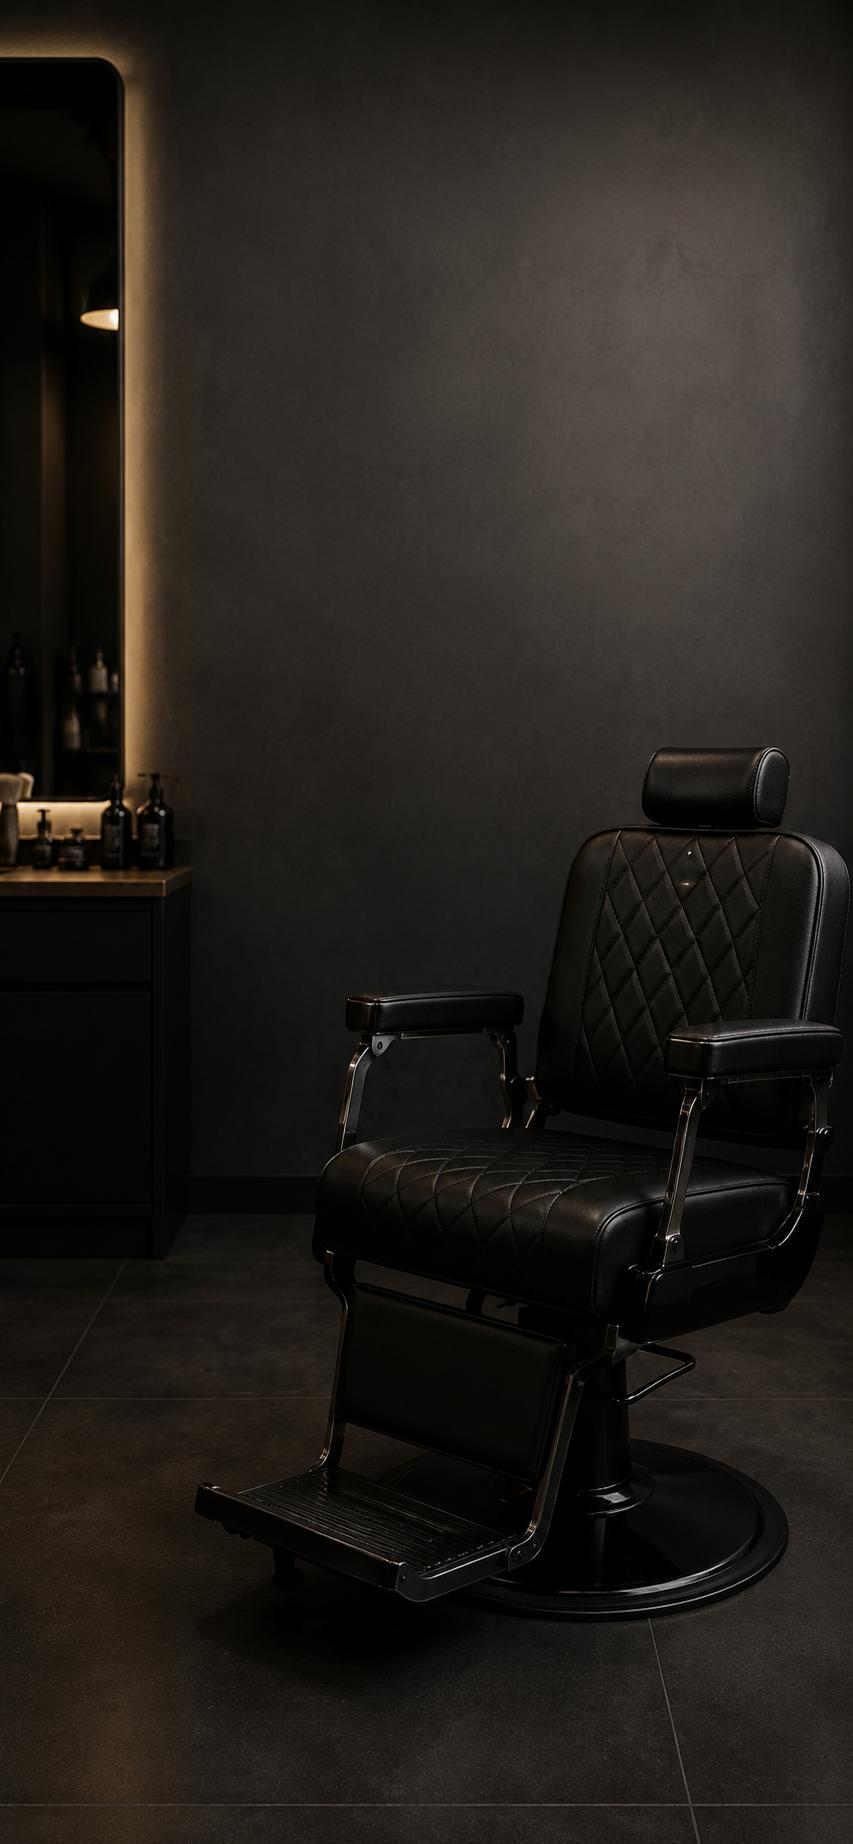
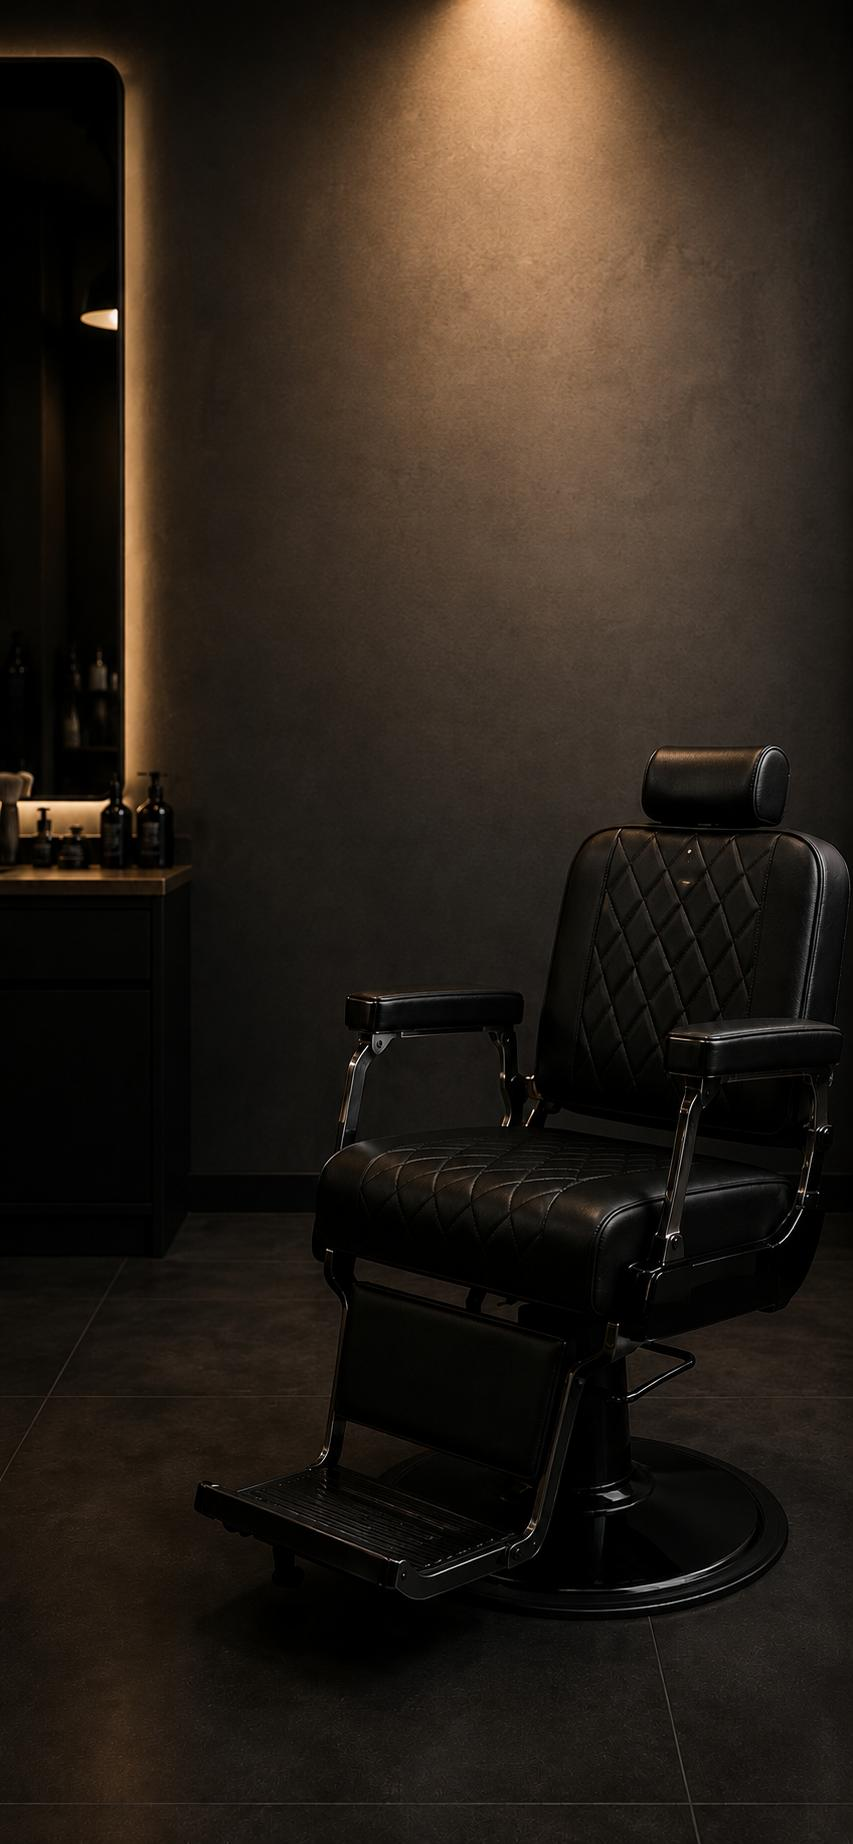
Add files via upload

diff --git a/index.html b/index.html
@@ -1846,8 +1846,8 @@ input, textarea, select {
 
     <!-- Content -->
     <div class="content-area">
-      <div class="info-card" style="background-image:url('mirror.jpg');background-size:cover;background-position:center;border-color:rgba(255,255,255,0.12);min-height:110px;position:relative;animation:card-spin 64s linear infinite;overflow:visible;transform-style:preserve-3d;opacity:1;">
-        <div style="position:absolute;inset:0;background:rgba(0,0,0,0.45);border-radius:inherit;"></div>
+      <div class="info-card" style="background:rgba(15,15,15,0.15);backdrop-filter:blur(6px);-webkit-backdrop-filter:blur(6px);border-color:rgba(197,161,81,0.25);min-height:110px;position:relative;animation:card-spin 64s linear infinite;overflow:visible;transform-style:preserve-3d;opacity:1;">
+        <div style="position:absolute;inset:0;border-radius:inherit;"></div>
         <div style="position:relative;z-index:1;">
           <h3 style="color:#f0ece4;text-shadow:0 2px 8px rgba(0,0,0,0.8);">הסטייל שלך, הסיפור שלנו</h3>
           <p style="color:rgba(240,236,228,0.85);text-shadow:0 1px 4px rgba(0,0,0,0.7);">עיצוב שיער ברמה הגבוהה ביותר — צוות מנוסה, אווירה מושקעת, ותוצאות שמדברות בעד עצמן.</p>